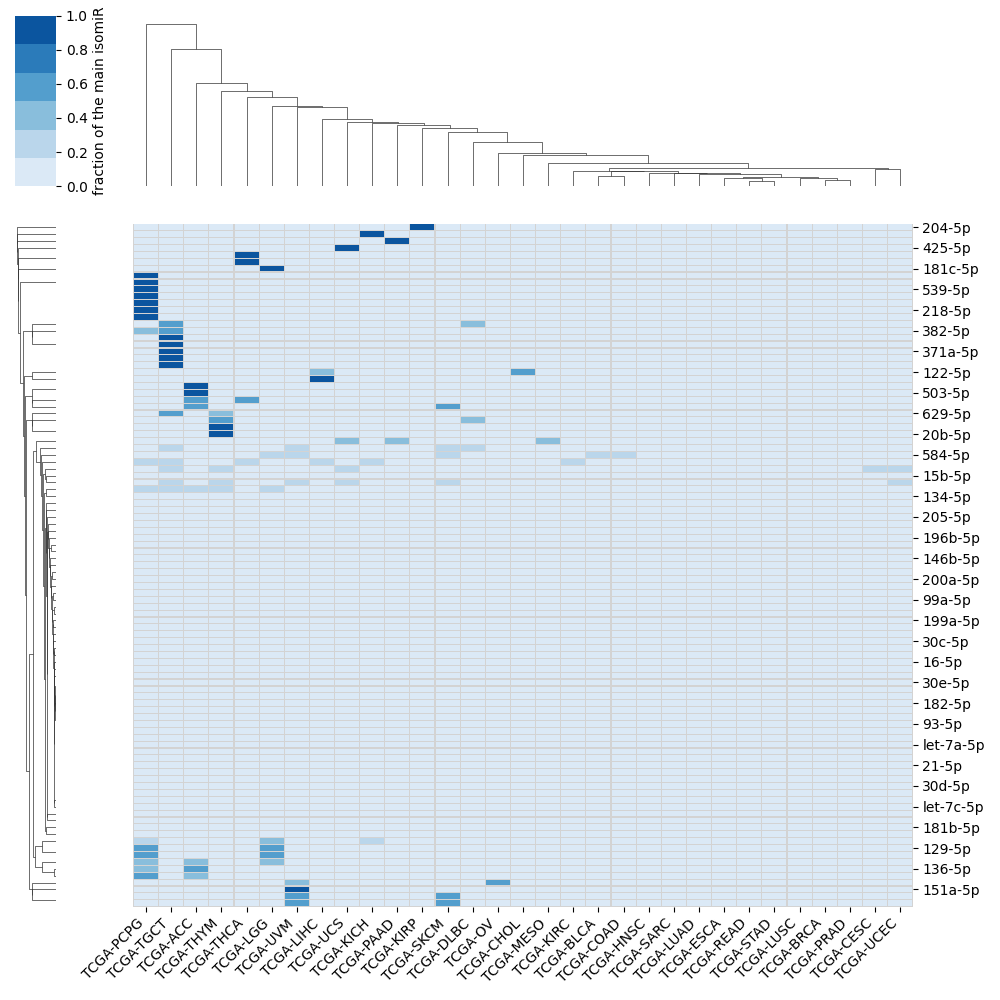
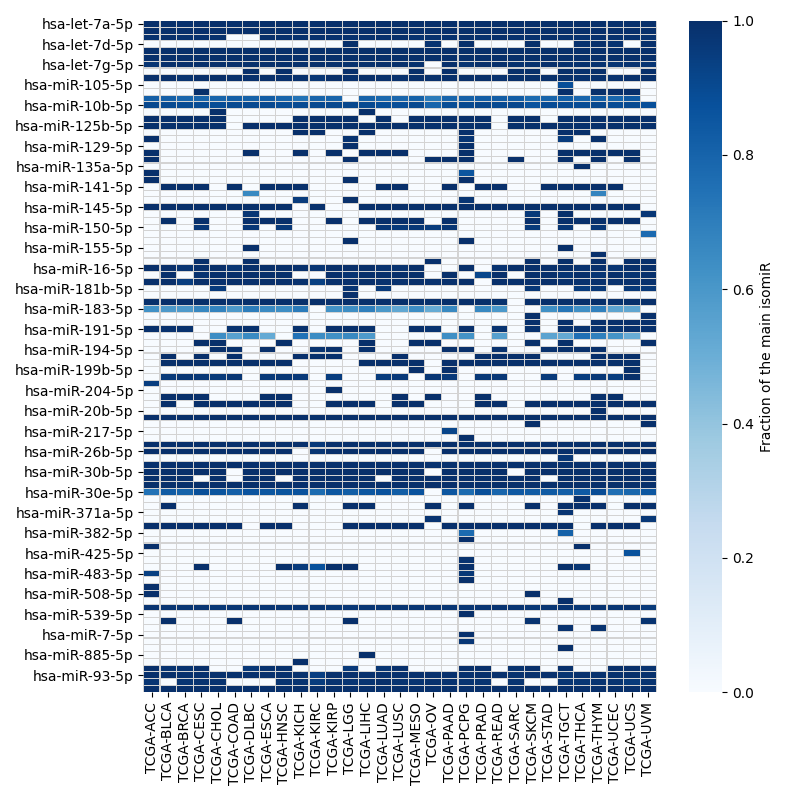
clustermap to heatmap in shifts and fractions

diff --git a/scripts/analysis/shifts/main_isomiRs_TCGA_stability.py b/scripts/analysis/shifts/main_isomiRs_TCGA_stability.py
@@ -10,7 +10,7 @@ term = int(sys.argv[1])
 side = int(sys.argv[2])
 tb = pd.read_csv("../../../processed_data/TCGA/main_isomiRs.tsv", sep="\t")
 tb = tb[tb["miRNA"].str.endswith("{}p".format(side))]
-tb["miRNA"] = tb["miRNA"].str.lstrip("hsa-miR-")
+# tb["miRNA"] = tb["miRNA"].str.lstrip("hsa-miR-")
 
 tb = tb.pivot_table(
         index = "shift_{}".format(term),
@@ -19,25 +19,57 @@ tb = tb.pivot_table(
         fill_value=0
 )
 
+shifts = list(range(-2, 3))
+# adding missed shifts
+for shift in shifts:
+    if shift not in list(tb.index):
+        tb.loc[shift] = 0
+
 for miRNA in tb.columns:
     tb.loc[:, miRNA] = tb.loc[:, miRNA] / tb.loc[:, miRNA].sum()
 
-cmap = sns.color_palette("Blues")
-p = sns.clustermap(
-    tb.T, dendrogram_ratio=(.05, .2),
-    cmap=cmap, linecolor="lightgrey", linewidth=0.1,
-    cbar_kws={"label": "fraction of TCGA projects"},
-    col_cluster=False
+# drop too large shifts
+tb = tb.drop(list(set(tb.index) - set(shifts)))
+
+# make lexicographical order
+tb = tb.sort_index()
+tb = tb.reindex(sorted(tb.columns), axis=1)
+
+
+cmap = sns.color_palette("Blues", as_cmap=True)
+#p = sns.clustermap(
+#    tb.T, dendrogram_ratio=(.05, .2), figsize=(7.5, 8),
+#    cmap=cmap, linecolor="lightgrey", linewidth=0.05,
+#    cbar_kws={"label": "fraction of TCGA projects"},
+#    col_cluster=False
+#)
+
+#plt.setp(p.ax_heatmap.get_xticklabels(), rotation=0)
+#plt.setp(p.ax_heatmap.get_yticklabels(), rotation=0)
+#p.ax_row_dendrogram.set_visible(False)
+#p.ax_heatmap.set_xlabel("")
+#p.ax_heatmap.set_ylabel("")
+
+#plt.tight_layout()
+#plt.savefig(
+#    OUTPUT_DIR + "{}term_{}p.png".format(term, side)
+#)
+
+fig, ax = plt.subplots(figsize=(8,8))
+ax = sns.heatmap(
+    tb.T,
+    cmap=cmap, linecolor="lightgrey", linewidth=0.05,
+    cbar_kws={"label": "Fraction of TCGA projects"},
+    ax=ax
 )
 
-plt.setp(p.ax_heatmap.get_xticklabels(), rotation=45, ha="right")
-plt.setp(p.ax_heatmap.get_yticklabels(), rotation=0)
-p.ax_heatmap.set_xlabel("")
-p.ax_heatmap.set_ylabel("")
-# p.ax_heatmap.set_yticklabels("")
-# plt.title("{}term_{}p.png".format(term, side), loc="left", fontdict={"fontsize": "xx-large", "fontweight": "bold"})
-
+ax.set_xlabel("")
+ax.set_ylabel("")
 plt.tight_layout()
 plt.savefig(
     OUTPUT_DIR + "{}term_{}p.png".format(term, side)
 )
+
+
+
+

diff --git a/scripts/analysis/fractions/main_isomiRs_TCGA_stability.py b/scripts/analysis/fractions/main_isomiRs_TCGA_stability.py
@@ -10,7 +10,7 @@ term = int(sys.argv[1])
 side = int(sys.argv[2])
 tb = pd.read_csv("../../../processed_data/TCGA/main_isomiRs.tsv", sep="\t")
 tb = tb[tb["miRNA"].str.endswith("{}p".format(side))]
-tb["miRNA"] = tb["miRNA"].str.lstrip("hsa-miR-")
+# tb["miRNA"] = tb["miRNA"].str.lstrip("hsa-miR-")
 
 tb = tb.pivot_table(
     index = "Project", columns="miRNA",
@@ -18,24 +18,34 @@ tb = tb.pivot_table(
     fill_value=0
 )
 
-for miRNA in tb.columns:
-    tb.loc[:, miRNA] = tb.loc[:, miRNA] / tb.loc[:, miRNA].sum()
+# make lexicographical order
+tb = tb.sort_index()
+tb = tb.reindex(sorted(tb.columns), axis=1)
 
-cmap = sns.color_palette("Blues")
-p = sns.clustermap(
-    tb.T, dendrogram_ratio=(.05, .2),
-    cmap=cmap, linecolor="lightgrey", linewidth=0.1,
-    cbar_kws={"label": "fraction of the main isomiR"},
+cmap = sns.color_palette("Blues", as_cmap=True)
+#p = sns.clustermap(
+#    tb.T, dendrogram_ratio=(.05, .2),
+#    cmap=cmap, linecolor="lightgrey", linewidth=0.1,
+#    cbar_kws={"label": "fraction of the main isomiR"},
+#)
+
+#plt.setp(p.ax_heatmap.get_xticklabels(), rotation=45, ha="right")
+#plt.setp(p.ax_heatmap.get_yticklabels(), rotation=0)
+#p.ax_heatmap.set_xlabel("")
+#p.ax_heatmap.set_ylabel("")
+
+fig, ax = plt.subplots(figsize=(8,8))
+ax = sns.heatmap(
+    tb.T,
+    cmap=cmap, linecolor="lightgrey", linewidth=0.05,
+    cbar_kws={"label": "Fraction of the main isomiR"},
+    ax=ax
 )
 
-plt.setp(p.ax_heatmap.get_xticklabels(), rotation=45, ha="right")
-plt.setp(p.ax_heatmap.get_yticklabels(), rotation=0)
-p.ax_heatmap.set_xlabel("")
-p.ax_heatmap.set_ylabel("")
-# p.ax_heatmap.set_yticklabels("")
-# plt.title("{}term_{}p.png".format(term, side), loc="left", fontdict={"fontsize": "xx-large", "fontweight": "bold"})
-
+ax.set_xlabel("")
+ax.set_ylabel("")
 plt.tight_layout()
+
 plt.savefig(
     OUTPUT_DIR + "{}term_{}p.png".format(term, side)
 )
